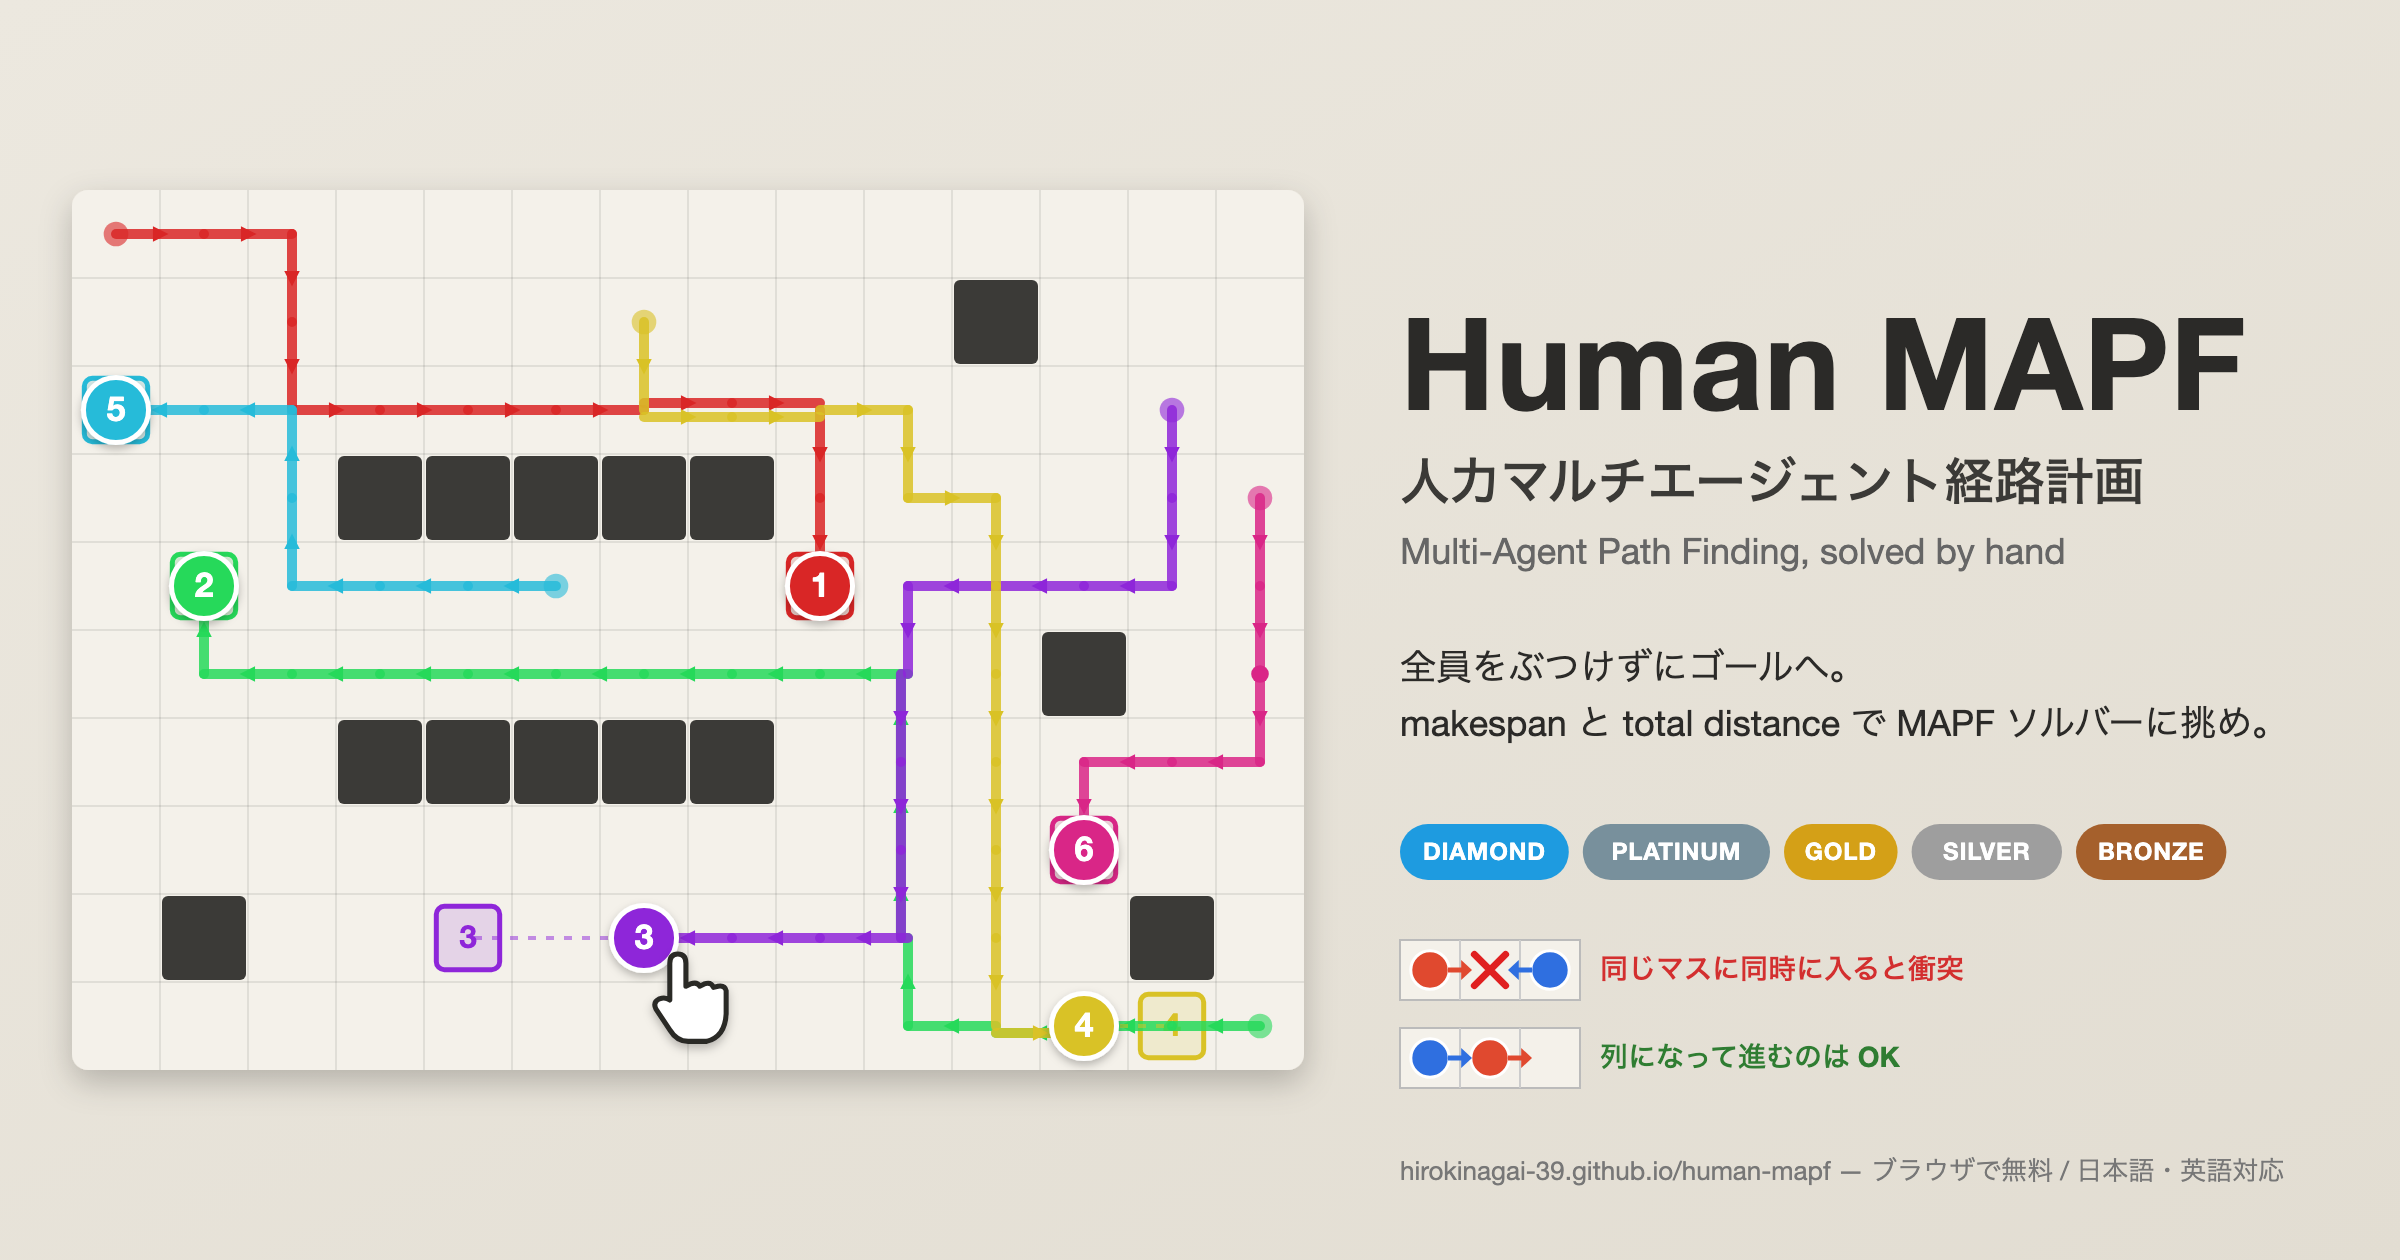
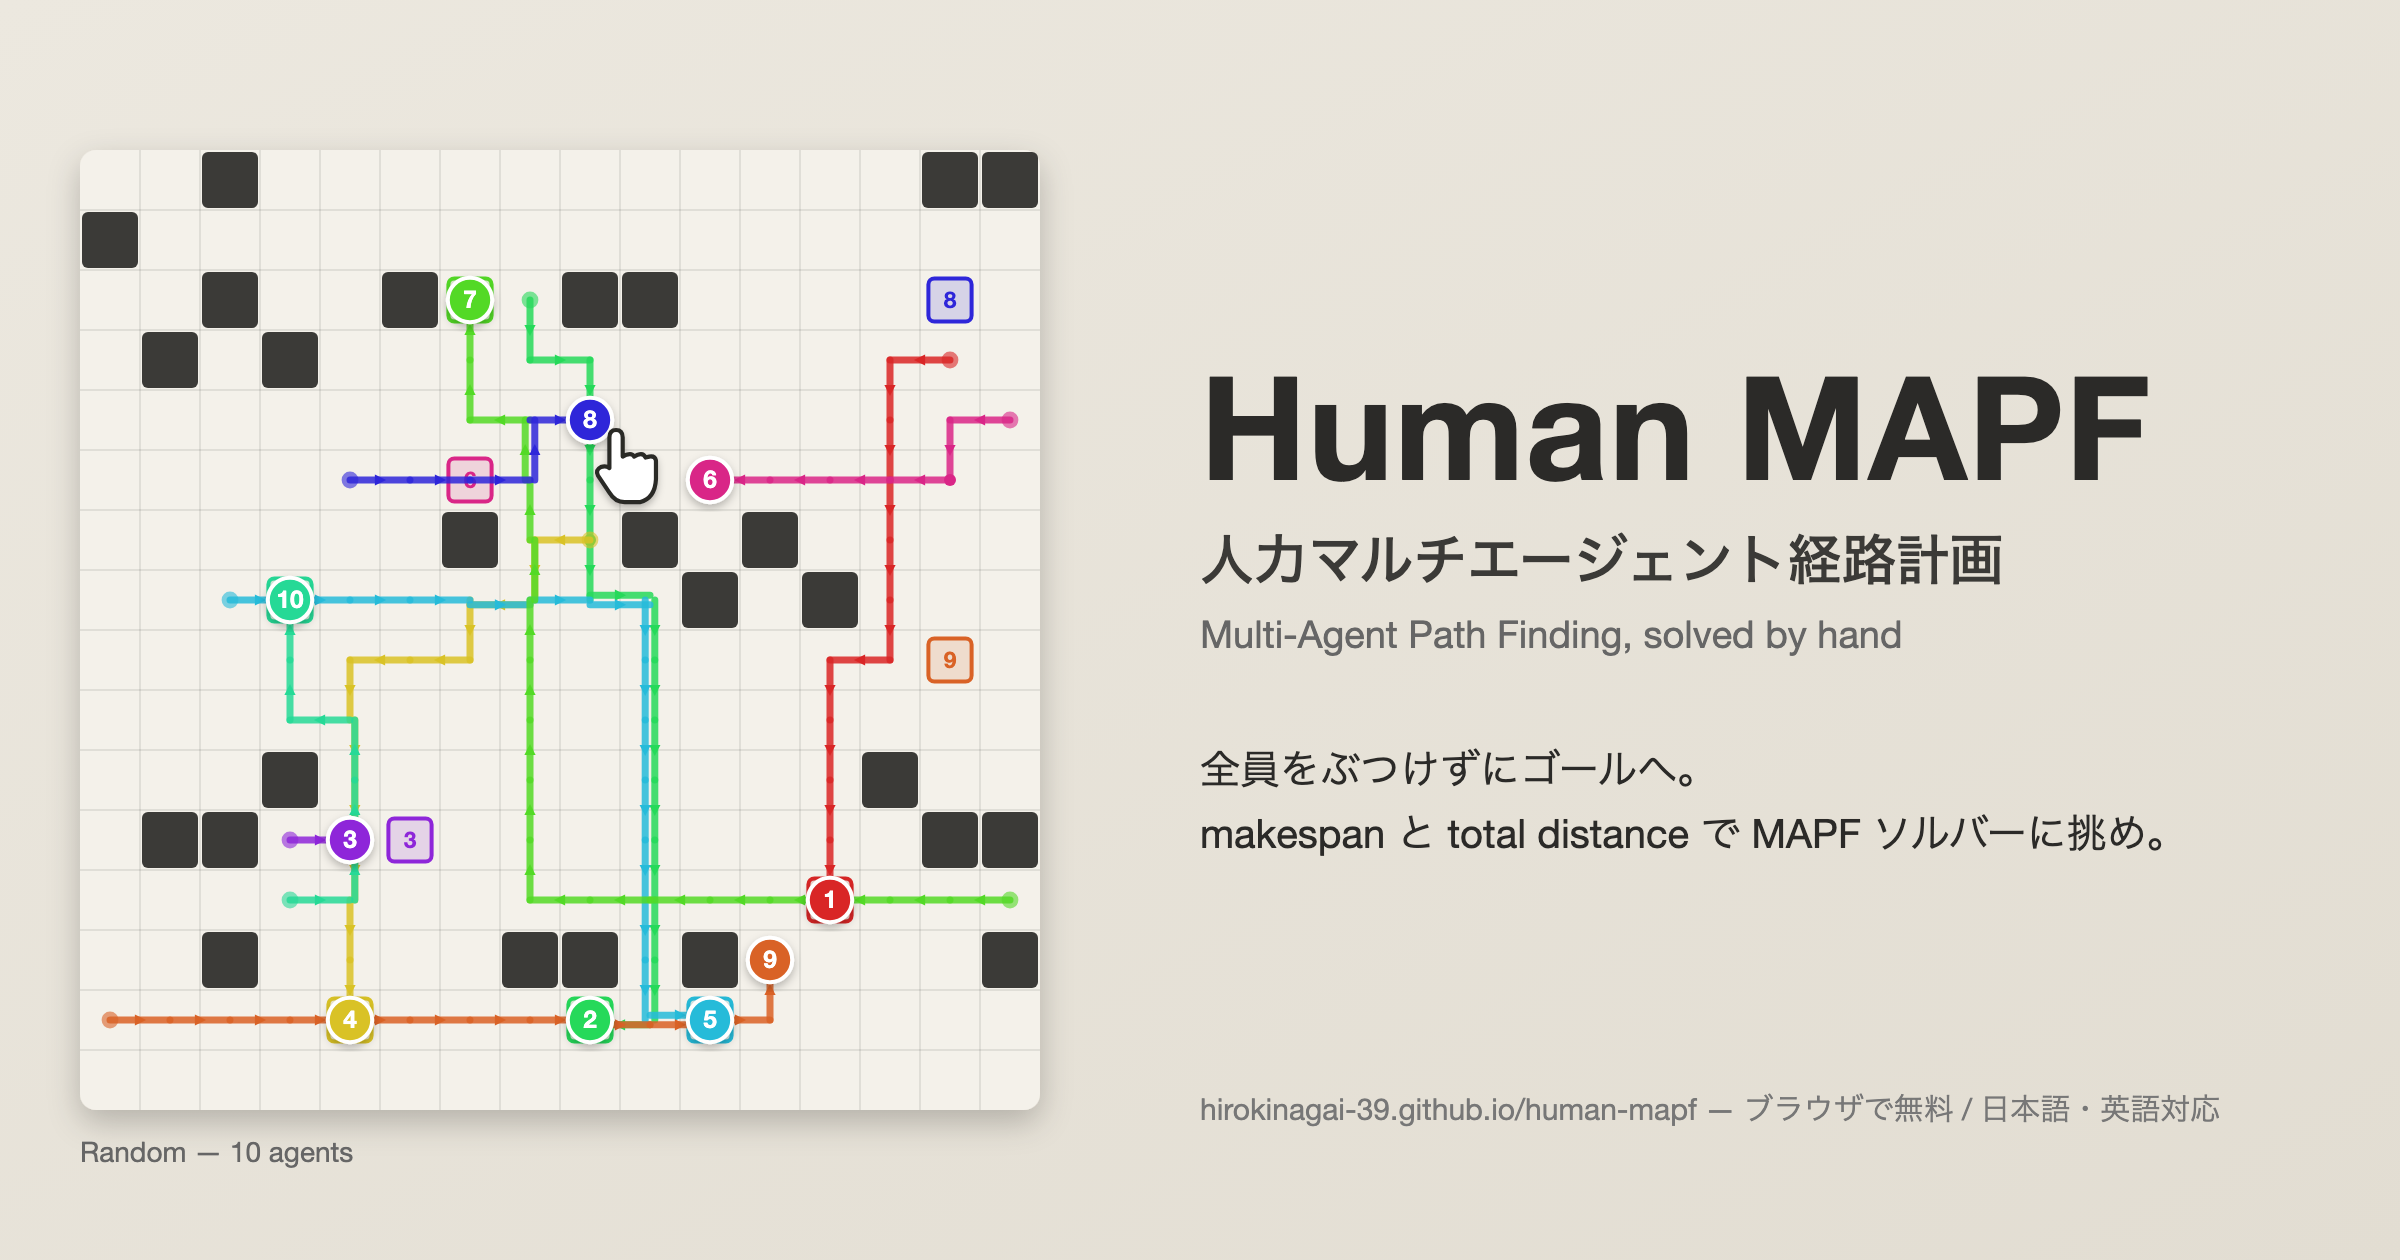
Hero artwork: real random:10 stage, remove rank chips and collision notes

Changed region(s): [[0.0312, 0.1238, 0.9375, 0.9595], [0.5, 0.65, 0.9375, 0.7119], [0.5938, 0.9286, 0.75, 0.9595]]

diff --git a/tools/artwork.js b/tools/artwork.js
@@ -1,26 +1,30 @@
 // tools/artwork.js — イメージイラスト (assets/hero.svg, 1200x630) を生成する
 //   node tools/artwork.js
+// 左: 実際の Random マップ (random:10) を LNS2 参考解の経路で途中まで解いている様子 / 右: タイトル
 const fs = require('fs'), path = require('path');
+const L = require('../src/lns2.js'), M = require('../src/maps.js'), R = require('../src/reference.js');
+
+const STAGE = 'random:10';
+const [mapId, N] = STAGE.split(':');
+const map = M.getMap(mapId), ref = R[STAGE];
+const decode = (start, str) => { const p = [start]; let c = start; for (const ch of str) { c += ch === 'R' ? 1 : ch === 'L' ? -1 : ch === 'D' ? map.w : ch === 'U' ? -map.w : 0; p.push(c); } return p; };
+const toXY = c => [c % map.w, Math.floor(c / map.w)];
+
+// 「解いている途中」に見せる: 一部のエージェントは経路を途中で切り, 1 台は手でドラッグ中
+const PARTIAL = { 2: 0.55, 5: 0.7, 7: 0.45, 8: 0.6 };
+const HAND = 7;
+const agents = ref.paths.map((str, i) => {
+  const full = decode(ref.starts[i], str);
+  const frac = PARTIAL[i];
+  const cut = frac ? Math.max(2, Math.round(full.length * frac)) : full.length;
+  return { path: full.slice(0, cut).map(toXY), goal: toXY(ref.goals[i]), hand: i === HAND };
+});
 
 const W = 1200, H = 630;
-const C = 44, BX = 36, BY = 95, COLS = 14, ROWS = 10;
-const cx = (i) => BX + (i + 0.5) * C, cy = (j) => BY + (j + 0.5) * C;
-const hue = (i) => (i * 137.508) % 360;
-const col = (i) => `hsl(${hue(i).toFixed(1)}, 70%, 50%)`;
-
-const obstacles = [];
-for (let x = 3; x <= 7; ++x) { obstacles.push([x, 3]); obstacles.push([x, 6]); }
-obstacles.push([10, 1], [11, 5], [1, 8], [12, 8]);
-
-// 経路 (セル列). 最後の要素が現在位置 (先端). goal は別途
-const agents = [
-  { path: [[0, 0], [1, 0], [2, 0], [2, 1], [2, 2], [3, 2], [4, 2], [5, 2], [6, 2], [7, 2], [8, 2], [8, 3], [8, 4]], goal: [8, 4] },
-  { path: [[13, 9], [12, 9], [11, 9], [10, 9], [9, 9], [9, 8], [9, 7], [9, 6], [9, 5], [8, 5], [7, 5], [6, 5], [5, 5], [4, 5], [3, 5], [2, 5], [1, 5], [1, 4]], goal: [1, 4] },
-  { path: [[12, 2], [12, 3], [12, 4], [11, 4], [10, 4], [9, 4], [9, 5], [9, 6], [9, 7], [9, 8], [8, 8], [7, 8], [6, 8]], goal: [4, 8], hand: true },
-  { path: [[6, 1], [6, 2], [7, 2], [8, 2], [9, 2], [9, 3], [10, 3], [10, 4], [10, 5], [10, 6], [10, 7], [10, 8], [10, 9], [11, 9]], goal: [12, 9] },
-  { path: [[5, 4], [4, 4], [3, 4], [2, 4], [2, 3], [2, 2], [1, 2], [0, 2]], goal: [0, 2] },
-  { path: [[13, 3], [13, 4], [13, 5], [13, 5], [13, 6], [12, 6], [11, 6], [11, 7]], goal: [11, 7] },
-];
+const C = 30, BX = 40, BY = 75, COLS = map.w, ROWS = map.h;
+const cx = i => BX + (i + 0.5) * C, cy = j => BY + (j + 0.5) * C;
+const hue = i => (i * 137.508) % 360;
+const col = i => `hsl(${hue(i).toFixed(1)}, 70%, 50%)`;
 
 // レーン割当 (ゲームと同じ: 無向辺ごとに使用エージェントを並べる)
 const ekey = (a, b) => { const ka = a[1] * COLS + a[0], kb = b[1] * COLS + b[0]; return ka < kb ? ka * 1000 + kb : kb * 1000 + ka; };
@@ -50,13 +54,13 @@ svg += `<g stroke="#000" stroke-opacity="0.08" stroke-width="1">`;
 for (let i = 1; i < COLS; ++i) svg += `<line x1="${BX + i * C}" y1="${BY}" x2="${BX + i * C}" y2="${BY + BH}"/>`;
 for (let j = 1; j < ROWS; ++j) svg += `<line x1="${BX}" y1="${BY + j * C}" x2="${BX + BW}" y2="${BY + j * C}"/>`;
 svg += `</g>`;
-for (const [x, y] of obstacles) svg += `<rect x="${BX + x * C + 1}" y="${BY + y * C + 1}" width="${C - 2}" height="${C - 2}" rx="3" fill="#3b3a37"/>`;
+for (let y = 0; y < ROWS; ++y) for (let x = 0; x < COLS; ++x) if (!map.free[y * COLS + x]) svg += `<rect x="${BX + x * C + 1}" y="${BY + y * C + 1}" width="${C - 2}" height="${C - 2}" rx="3" fill="#3b3a37"/>`;
 
 // ゴール
 agents.forEach((ag, i) => {
   const [gx, gy] = ag.goal; const r = C * 0.36;
-  svg += `<rect x="${cx(gx) - r}" y="${cy(gy) - r}" width="${2 * r}" height="${2 * r}" rx="4" fill="${col(i)}" fill-opacity="0.15" stroke="${col(i)}" stroke-width="2.5"/>`;
-  svg += `<text x="${cx(gx)}" y="${cy(gy) + 1}" font-size="${C * 0.36}" font-weight="700" fill="${col(i)}" text-anchor="middle" dominant-baseline="middle">${i + 1}</text>`;
+  svg += `<rect x="${cx(gx) - r}" y="${cy(gy) - r}" width="${2 * r}" height="${2 * r}" rx="3" fill="${col(i)}" fill-opacity="0.15" stroke="${col(i)}" stroke-width="2"/>`;
+  svg += `<text x="${cx(gx)}" y="${cy(gy) + 1}" font-size="${C * 0.38}" font-weight="700" fill="${col(i)}" text-anchor="middle" dominant-baseline="middle">${i + 1}</text>`;
 });
 // 経路
 agents.forEach((ag, i) => {
@@ -70,61 +74,39 @@ agents.forEach((ag, i) => {
     const x1 = cx(a[0]), y1 = cy(a[1]), x2 = cx(b[0]), y2 = cy(b[1]);
     const dx = x2 - x1, dy = y2 - y1, len = Math.hypot(dx, dy), ux = dx / len, uy = dy / len;
     const ox = -uy * off, oy = ux * off;
-    svg += `<line x1="${x1 + ox}" y1="${y1 + oy}" x2="${x2 + ox}" y2="${y2 + oy}" stroke="${col(i)}" stroke-width="5" stroke-linecap="round" stroke-opacity="0.85"/>`;
-    const mx = (x1 + x2) / 2 + ox, my = (y1 + y2) / 2 + oy, ah = C * 0.16;
+    svg += `<line x1="${x1 + ox}" y1="${y1 + oy}" x2="${x2 + ox}" y2="${y2 + oy}" stroke="${col(i)}" stroke-width="3.5" stroke-linecap="round" stroke-opacity="0.85"/>`;
+    const mx = (x1 + x2) / 2 + ox, my = (y1 + y2) / 2 + oy, ah = C * 0.17;
     svg += `<polygon points="${mx + ux * ah * 0.6},${my + uy * ah * 0.6} ${mx - ux * ah * 0.5 - uy * ah * 0.55},${my - uy * ah * 0.5 + ux * ah * 0.55} ${mx - ux * ah * 0.5 + uy * ah * 0.55},${my - uy * ah * 0.5 - ux * ah * 0.55}" fill="${col(i)}"/>`;
     lastOff = [ox, oy];
   }
-  // 残り (先端からゴールまで) を点線で
-  const hd = ag.path[ag.path.length - 1];
-  if (hd[0] !== ag.goal[0] || hd[1] !== ag.goal[1]) svg += `<line x1="${cx(hd[0])}" y1="${cy(hd[1])}" x2="${cx(ag.goal[0])}" y2="${cy(ag.goal[1])}" stroke="${col(i)}" stroke-width="2" stroke-dasharray="4 5" stroke-opacity="0.5"/>`;
 });
 // スタート点
-agents.forEach((ag, i) => { const [sx, sy] = ag.path[0]; svg += `<circle cx="${cx(sx)}" cy="${cy(sy)}" r="${C * 0.14}" fill="${col(i)}" fill-opacity="0.6"/>`; });
+agents.forEach((ag, i) => { if (ag.path.length > 1) { const [sx, sy] = ag.path[0]; svg += `<circle cx="${cx(sx)}" cy="${cy(sy)}" r="${C * 0.14}" fill="${col(i)}" fill-opacity="0.6"/>`; } });
 // エージェント (先端)
 agents.forEach((ag, i) => {
   const [hx, hy] = ag.path[ag.path.length - 1]; const r = C * 0.37;
-  svg += `<g filter="url(#soft)"><circle cx="${cx(hx)}" cy="${cy(hy)}" r="${r}" fill="${col(i)}" stroke="#fff" stroke-width="2.5"/></g>`;
-  svg += `<text x="${cx(hx)}" y="${cy(hy) + 1}" font-size="${r * 1.05}" font-weight="700" fill="#fff" text-anchor="middle" dominant-baseline="middle">${i + 1}</text>`;
+  svg += `<g filter="url(#soft)"><circle cx="${cx(hx)}" cy="${cy(hy)}" r="${r}" fill="${col(i)}" stroke="#fff" stroke-width="2"/></g>`;
+  svg += `<text x="${cx(hx)}" y="${cy(hy) + 1}" font-size="${r * 1.1}" font-weight="700" fill="#fff" text-anchor="middle" dominant-baseline="middle">${i + 1}</text>`;
 });
 // 手 (ドラッグ中)
 {
   const ag = agents.find(a => a.hand); const [hx, hy] = ag.path[ag.path.length - 1];
-  const x = cx(hx) + 6, y = cy(hy) + 8;
-  svg += `<g transform="translate(${x} ${y}) scale(1.15)" filter="url(#soft)">
+  const x = cx(hx) + 4, y = cy(hy) + 5;
+  svg += `<g transform="translate(${x} ${y}) scale(0.95)" filter="url(#soft)">
     <path d="M6 20 L6 4 Q6 0 9.5 0 Q13 0 13 4 L13 14 L15 13 Q18 12 19 14 L21 13 Q24 12 25 14.5 L27 14 Q30 13.5 30.5 16 L30.5 26 Q30 36 22 38 L14 38 Q9 38 6 33 L0 24 Q-1.5 21 1.5 19.5 Q4 18.5 6 20 Z" fill="#fff" stroke="#2b2a28" stroke-width="2.2" stroke-linejoin="round"/>
   </g>`;
 }
+// 盤面のキャプション
+svg += `<text x="${BX}" y="${BY + BH + 26}" font-size="14" fill="#666">Random — 10 agents</text>`;
+
 // タイトル
-const TX = 700;
-svg += `<text x="${TX}" y="205" font-size="64" font-weight="800" fill="#2b2a28" letter-spacing="0.5">Human MAPF</text>`;
-svg += `<text x="${TX}" y="250" font-size="25" font-weight="600" fill="#3b3a37">人力マルチエージェント経路計画</text>`;
-svg += `<text x="${TX}" y="282" font-size="18" fill="#666">Multi-Agent Path Finding, solved by hand</text>`;
-svg += `<text x="${TX}" y="340" font-size="18" fill="#2b2a28">全員をぶつけずにゴールへ。</text>`;
-svg += `<text x="${TX}" y="368" font-size="18" fill="#2b2a28">makespan と total distance で MAPF ソルバーに挑め。</text>`;
-// ランクチップ
-const chips = [['DIAMOND', '#1e9be0'], ['PLATINUM', '#78909c'], ['GOLD', '#d4a017'], ['SILVER', '#9e9e9e'], ['BRONZE', '#a5602c']];
-let x = TX; const yChip = 412;
-for (const [name, c] of chips) {
-  const w = name.length * 9.2 + 20;
-  svg += `<rect x="${x}" y="${yChip}" width="${w}" height="28" rx="14" fill="${c}"/><text x="${x + w / 2}" y="${yChip + 15}" font-size="12" font-weight="700" fill="#fff" text-anchor="middle" dominant-baseline="middle" letter-spacing="0.4">${name}</text>`;
-  x += w + 7;
-}
-// 衝突ルールのミニ図 (頂点衝突 ✗ / 追従 ○)
-const mini = (x0, y0, items, cap, capColor) => {
-  const s = 30; let o = `<g transform="translate(${x0} ${y0})"><rect x="0" y="0" width="${3 * s}" height="${s}" fill="#f4f1ea" stroke="#bbb"/><line x1="${s}" y1="0" x2="${s}" y2="${s}" stroke="#ccc"/><line x1="${2 * s}" y1="0" x2="${2 * s}" y2="${s}" stroke="#ccc"/>`;
-  for (const it of items) {
-    if (it.t === 'a') o += `<circle cx="${(it.x + 0.5) * s}" cy="${s / 2}" r="${s * 0.32}" fill="${it.c}" fill-opacity="${it.g ? 0.35 : 1}" stroke="#fff" stroke-width="1.5"/>`;
-    if (it.t === 'ar') { const x1 = (it.x1 + 0.5) * s, x2 = (it.x2 + 0.5) * s; const d = Math.sign(x2 - x1); o += `<line x1="${x1 + d * s * 0.3}" y1="${s / 2}" x2="${x2 - d * s * 0.42}" y2="${s / 2}" stroke="${it.c}" stroke-width="2.5"/><polygon points="${x2 - d * s * 0.3},${s / 2} ${x2 - d * s * 0.48},${s / 2 - 5} ${x2 - d * s * 0.48},${s / 2 + 5}" fill="${it.c}"/>`; }
-    if (it.t === 'x') { const cxx = (it.x + 0.5) * s, r = s * 0.26; o += `<path d="M${cxx - r},${s / 2 - r} L${cxx + r},${s / 2 + r} M${cxx + r},${s / 2 - r} L${cxx - r},${s / 2 + r}" stroke="#e02020" stroke-width="3.5" stroke-linecap="round"/>`; }
-  }
-  o += `<text x="${3 * s + 10}" y="${s / 2 + 1}" font-size="14" font-weight="600" fill="${capColor}" dominant-baseline="middle">${cap}</text></g>`;
-  return o;
-};
-const A = '#e0492f', B = '#2f6fe0';
-svg += mini(TX, 470, [{ t: 'a', x: 0, c: A }, { t: 'a', x: 2, c: B }, { t: 'ar', x1: 0, x2: 1, c: A }, { t: 'ar', x1: 2, x2: 1, c: B }, { t: 'x', x: 1 }], '同じマスに同時に入ると衝突', '#d32f2f');
-svg += mini(TX, 514, [{ t: 'a', x: 0, c: B }, { t: 'a', x: 1, c: A }, { t: 'ar', x1: 1, x2: 2, c: A }, { t: 'ar', x1: 0, x2: 1, c: B }], '列になって進むのは OK', '#2f7d32');
-svg += `<text x="${TX}" y="590" font-size="13" fill="#777">hirokinagai-39.github.io/human-mapf — ブラウザで無料 / 日本語・英語対応</text>`;
+const TX = 600;
+svg += `<text x="${TX}" y="240" font-size="72" font-weight="800" fill="#2b2a28" letter-spacing="0.5">Human MAPF</text>`;
+svg += `<text x="${TX}" y="290" font-size="27" font-weight="600" fill="#3b3a37">人力マルチエージェント経路計画</text>`;
+svg += `<text x="${TX}" y="324" font-size="19" fill="#666">Multi-Agent Path Finding, solved by hand</text>`;
+svg += `<text x="${TX}" y="392" font-size="20" fill="#2b2a28">全員をぶつけずにゴールへ。</text>`;
+svg += `<text x="${TX}" y="424" font-size="20" fill="#2b2a28">makespan と total distance で MAPF ソルバーに挑め。</text>`;
+svg += `<text x="${TX}" y="560" font-size="15" fill="#777">hirokinagai-39.github.io/human-mapf — ブラウザで無料 / 日本語・英語対応</text>`;
 svg += `</svg>\n`;
 
 const out = path.join(__dirname, '..', 'assets', 'hero.svg');
